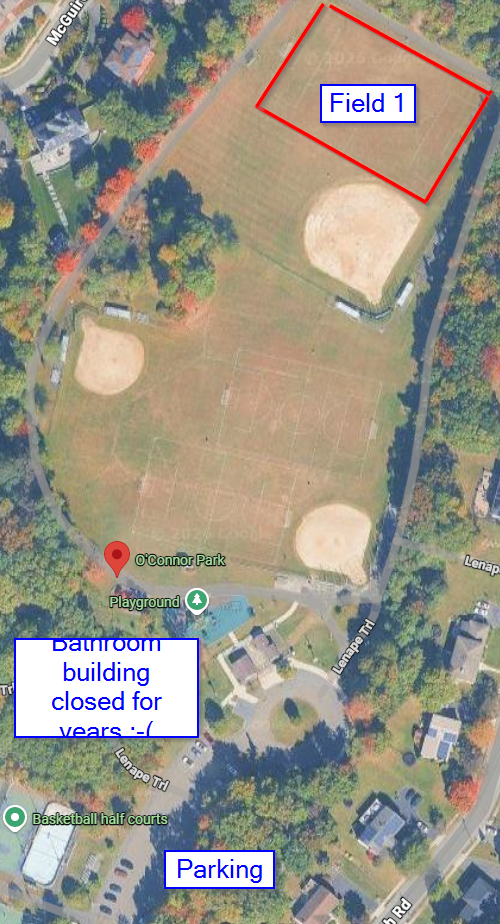
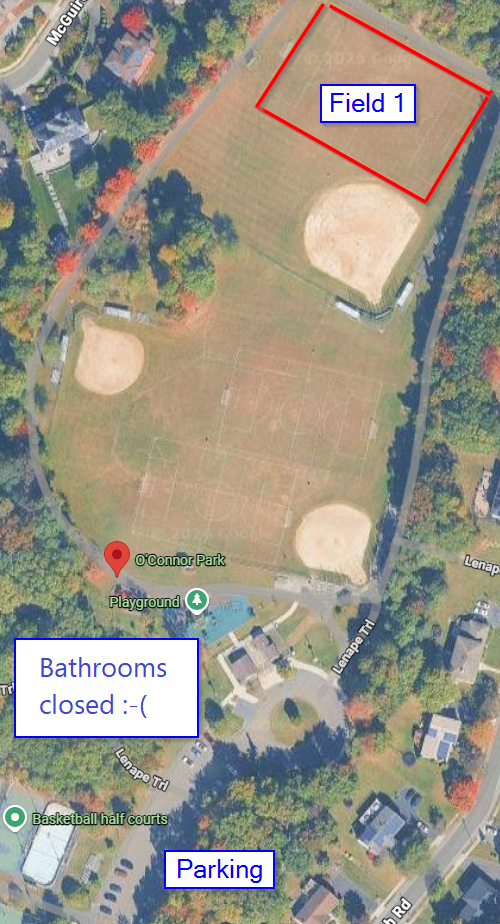
Assorted minor tweaks and fixes

Changed region(s): [[0.06, 0.697, 0.33, 0.8182]]

diff --git a/soccer/coach-guide.md b/soccer/coach-guide.md
@@ -16,13 +16,15 @@ Within the **last week or two before the first game**, coaches need to visit the
 league house to pick up a team bag for each team they coach:
 
 **MTL League House**
+
 12 Old Indian Road, West Orange, NJ 07052
 
 The team bag contains:
 
 - **Uniforms** — jerseys, shorts, and socks for every player on your roster
 - **Shin guards** — for Little Kickers and 1st/2nd Grade; extras may be available for older groups
-- **Basic first aid supplies**
+- **Basic first aid supplies** - be prepared and ready!
+- **Miscellaneous game items** (uninflated game ball, markers, etc.)
 
 Wait for an email for further instructions and the door code.
 
@@ -30,6 +32,11 @@ Wait for an email for further instructions and the door code.
 
 Coaches will receive an email with a link to a **digital training course on
 concussions**. This is required — please complete it before the season starts.
+
+### Background Check
+
+As a coach you'll be expected to have a background check done, by filling in a simple
+form online, and you'll be all set for multiple seasons.
 
 ### Communicating with Your Team
 
@@ -53,7 +60,7 @@ maps of each site.
 
 ## Sportsmanship
 
-Please familiarize yourself with the MTL Sportsmanship Agreement. Coaches set
+Please familiarize yourself with general sportsmanship expectations. Coaches set
 the tone — model positive behavior for players and parents. See the
 [Game Day Guide]({{ site.baseurl }}/soccer/game-day/) for parent conduct
 expectations you can share with your team.
@@ -63,8 +70,8 @@ expectations you can share with your team.
 - Hand out uniforms **before the session starts** so play can begin on time
 - Uniforms are the same as previous seasons — let parents know they can reuse
   shorts, socks, and shin guards from last season to avoid changing at the field
-- Sizing can be tricky — if a child is small or large for their age, arrange
-  the uniform lineup accordingly
+- Sizing can be tricky — ask parents if a child is small or large for their age,
+  and arrange the uniform lineup accordingly so we minimize risk of poor fits.
 
 ## Reporting
 
@@ -73,10 +80,10 @@ Any **parent issue, player issue, or injury** must be reported to
 
 ## Game Day Checklist
 
-- Arrive at least 10-15 minutes early
+- Arrive at least 10-15 minutes early (moreso for the first game)
 - Hand out uniforms if not yet distributed
-- Bring the team bag (first aid supplies)
-- Bring extra water in case a player forgets theirs
+- Bring the team bag (first aid supplies etc)
+- Consider bringing extra water in case a player forgets theirs
 - Check the field for hazards (sticks, rocks, debris)
 - Confirm player count with the opposing coach
 - Clean up — don't leave trash behind on the field

diff --git a/soccer/fields/oconnor.md b/soccer/fields/oconnor.md
@@ -9,20 +9,20 @@ O'Connor Park is one of the sites used for MTL Soccer games in West Orange, NJ.
 
 ## Field Overview
 
-The image below shows the approximate layout of soccer fields at O'Connor Park.
+The image below shows the approximate layout of the O'Connor park soccer field(s).
 
 ![O'Connor Park overhead view showing Field 1, parking, and playground]({{ site.baseurl }}/assets/images/oconnor-field-overview.png)
 
 ### Key Landmarks
 
-- **Parking** — at the south end of the park, off Burnett Terrace
-- **Playground** — located near the center of the park
+- **Parking** — at the south end of the park, shortly beyond the entrance
+- **Playground** — located by the southern edge of the park
 - **Field 1** — at the north end of the park
-- **Bathroom building** — currently closed
+- **Bathroom building** — unfortunately has been closed for years
 
 ## Getting There
 
-**Address:** O'Connor Park, West Orange, NJ
+**Address:** Entrance by the intersection of Ralph Road and Lorelei Road, West Orange, NJ
 
 <div class="map-embed">
   <iframe
@@ -38,10 +38,12 @@ The image below shows the approximate layout of soccer fields at O'Connor Park.
 
 ## Parking
 
-- Park in the lot at the south end, accessible from Burnett Terrace
+- Park in the lot at the south end (or carefully use street parking outside the park)
 
 ## Tips for Parents
 
 - The bathroom building has been closed for some time — plan accordingly
+  - There may be a porta-potty on the north side of the buildings
+  - Consider bringing and/or sharing wipes and hand sanitizer!
 - Check TeamSnap for your exact field assignment before heading out
-- Arrive early — parking can fill up when multiple games are scheduled
+- Arrive early — parking can fill up when multiple activities coincide

diff --git a/soccer/fields/redwood.md b/soccer/fields/redwood.md
@@ -11,6 +11,8 @@ Redwood Field is one of the sites used for MTL Soccer games in West Orange, NJ.
 
 The image below shows the approximate layout of soccer fields at Redwood.
 
+If needed a 4th field can be set up on the south-eastern side by Redwood Ave.
+
 ![Redwood Field overhead view]({{ site.baseurl }}/assets/images/redwood-field-overview.png)
 
 ## Getting There
@@ -31,10 +33,13 @@ The image below shows the approximate layout of soccer fields at Redwood.
 
 ## Parking
 
+- Enter the main field parking lot from Forest Ave near Nicholas Ave
 - **Adhere to all parking signs.** Parking on both sides of the street is not
   allowed — you will be ticketed and it is extremely dangerous.
 
 ## Tips for Parents
 
+- There is no bathroom building, just a porta-potty near the fields - plan accordingly
+  - Consider bringing and/or sharing wipes and hand sanitizer!
 - Check TeamSnap for your exact field assignment before heading out
-- **Arrive early** — parking is always challenging with hundreds of kids across programs
+- **Arrive early** — parking can be challenging with hundreds of kids across programs

diff --git a/soccer/game-day.md b/soccer/game-day.md
@@ -49,6 +49,8 @@ be available — ask your coach if you need one.
 - **Soccer ball** — the right size for your age group (see below)
 - **Weather-appropriate clothing** — dress in layers for cooler days
 
+The fields can be muddy after rain — bring extra shoes if needed for after the game
+
 ### Ball Sizes by Age Group
 
 | Age Group | Ball Size |
@@ -80,8 +82,8 @@ conditions will immediately end any game.
 
 ### Parking
 
-Arrive early — parking is always challenging with hundreds of kids across programs.
-See the [Field Locations]({{ site.baseurl }}/soccer/fields/) page for
+- Arrive early — parking is often challenging with hundreds of kids across programs.
+- See the [Field Locations]({{ site.baseurl }}/soccer/fields/) page for
 parking details specific to each field.
 
 ### TeamSnap
@@ -97,7 +99,7 @@ guide for details.
 - **Do not go on the field** unless you are a head coach or assistant coach.
   If you would like to help, let us know and we will let you know what is
   required.
-  
+
 ### Share Your Photos
 
 Any pictures of the session you would like us to use on our

diff --git a/soccer/referee-guide.md b/soccer/referee-guide.md
@@ -16,7 +16,7 @@ This guide covers referee responsibilities across all MTL Soccer age groups.
   (7v7/9v9 fields use sand bags provided by the town)
 - **Introduce yourself** to both coaches
 - **Check each player** for shin guards and appropriate footwear (cleats are
-  not required)
+  encouraged but not required)
 
 ## During the Game
 
@@ -32,7 +32,7 @@ This guide covers referee responsibilities across all MTL Soccer age groups.
 |---|---|---|---|
 | **No goalies** | Enforce — encourage players to move | Enforce — encourage players to move | N/A — goalies are used |
 | **Goal kick positioning** | N/A — no goal kicks | Opposing team behind midfield | Opposing team behind midfield |
-| **No heading** | Enforce | Enforce | Enforce — indirect FK to opponents |
+| **No heading** | Enforce | Enforce | Enforce — indirect free kick to opponents |
 | **Throw-ins** | N/A — use kick/dribble-ins | N/A — use kick/dribble-ins | Allow re-dos in first 2 weeks |
 | **Positions** | Gently encourage movement | Ensure kids line up in positions | Standard play |
 

diff --git a/soccer/fields/stagg-field.md b/soccer/fields/stagg-field.md
@@ -50,6 +50,5 @@ exact field assignment.
 ## Tips for Parents
 
 - **Arrive early** — parking is always challenging with hundreds of kids across programs
-- The fields can be muddy after rain — bring extra shoes for after the game
-- Bathrooms are at the north end near the tennis courts
+- Bathrooms are at the north end near the tennis courts / by the playground
 - Check TeamSnap for your exact field number before heading out
